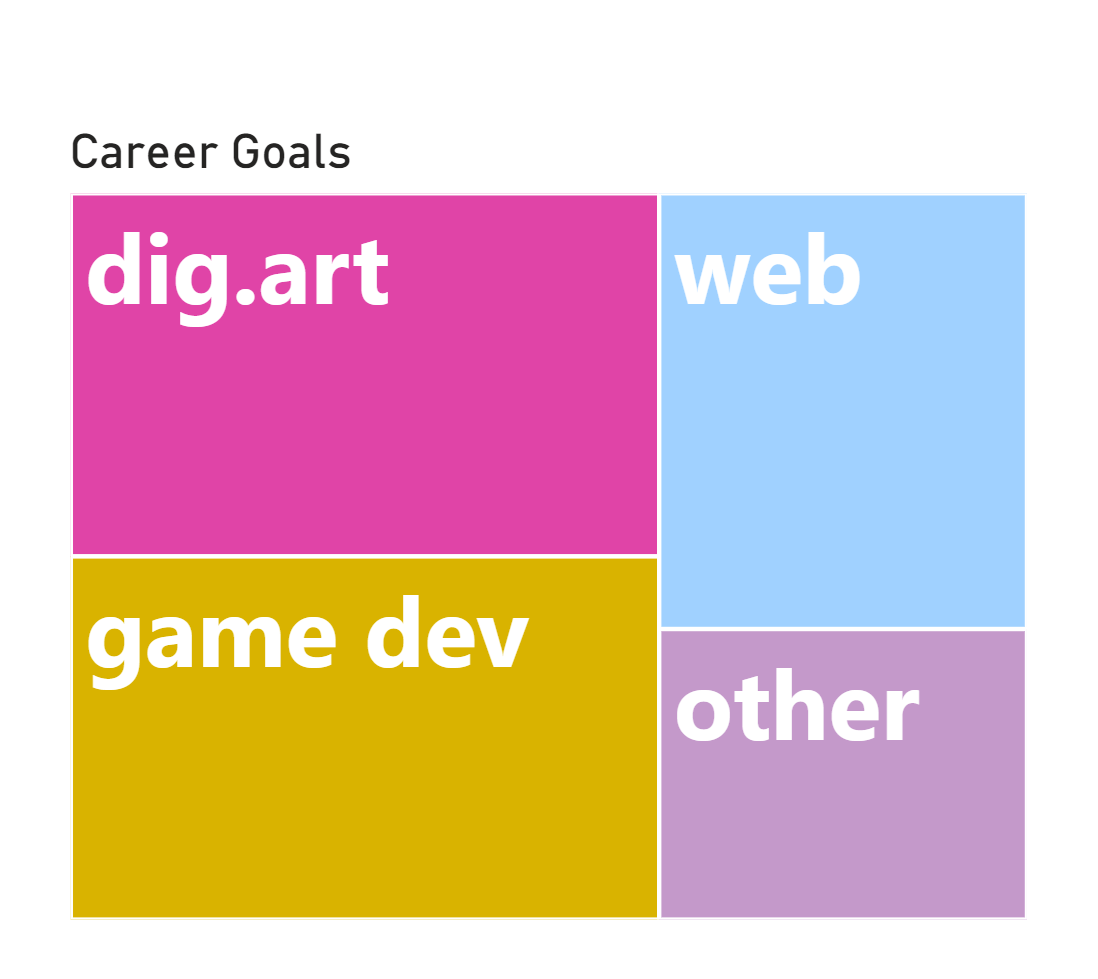
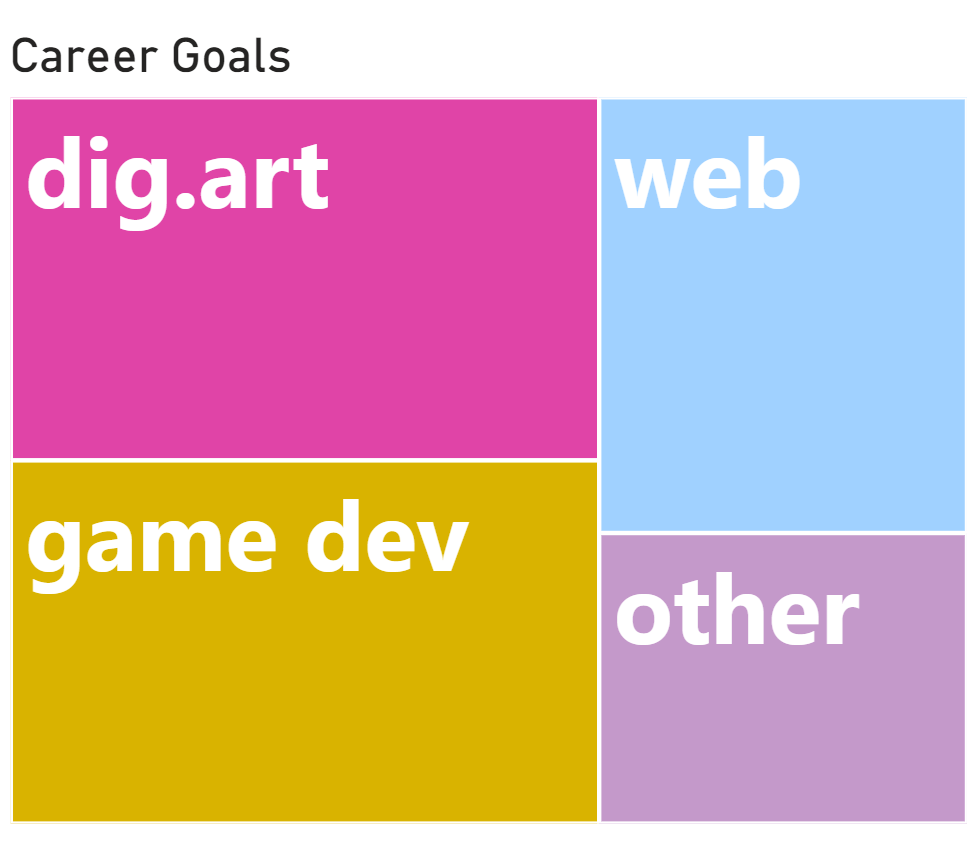
updated data vis. and css

Changed region(s): [[0.0, 0.0307, 1.0, 0.9835]]

diff --git a/docs/about-students.html b/docs/about-students.html
@@ -46,7 +46,7 @@
             <div class="dataresults"> </div>
             <div class="about_forms">
                 <div class="dataintro">Our Student Data <br />We surveyed some Digit students about
-                    their experience to learn more about Digit culture.All graphs were created with <a href="https://www.microsoft.com/en-us/power-platform/products/power-bi">Microsoft Power BI</a>. Here are the results:</div>
+                    their experience to learn more about Digit culture. All graphs were created with <a href="https://www.microsoft.com/en-us/power-platform/products/power-bi">Microsoft Power BI</a>. Here are the results:</div>
             </div>
 
 
@@ -67,7 +67,7 @@
                         or another PSU branch campus. </figcaption>
                 </figure>
                 <figure>
-                    <img class="datacaption" src="images/graphs/minors.png"
+                    <img class="datacaption3" src="images/graphs/minors.png"
                         alt="graph displaying data about minors" />
                     <figcaption class="aboutImageCaption">Every student surveyed so far is earning a
                         minor. Art related minors(e.g. media production,music technology) are the
@@ -82,9 +82,9 @@
                         of students that started as a Digit student.<br/>Most students did not start as a Digit<br/> student. </figcaption>
                 </figure>
                 <figure>
-                    <img src="images/graphs/careers.png" class="datacaption3"
+                    <img src="images/graphs/careers.png" class="datacaption4"
                         alt="graph displaying graph about careers" />
-                    <figcaption class="aboutImageCaption">This tree map shows what career goals our Digit students have.Most students want to work in dig.art and game development.  </figcaption>
+                    <figcaption class="aboutImageCaption">This tree map shows what career goals our Digit students have. Most students want to work in digital art and game development.  </figcaption>
                 </figure>
             </div>
 

diff --git a/docs/digit_style.css b/docs/digit_style.css
@@ -540,17 +540,23 @@ text-align-last: center;
 }
 img.datacaption{
 display:flex;
-width:300px
+width:400px
 
 }
 img.datacaption2{
 display:flex;
-width:300px;
+width:350px;
 
 }
 img.datacaption3{
+    display:flex;
+width:300px
+}
+img.datacaption4{
 display:flex;
-width:400px;    
+width:350px; 
+right: 350px;
+text-align:right
 }
 figcaption.aboutImageCaption{
 color:black    
